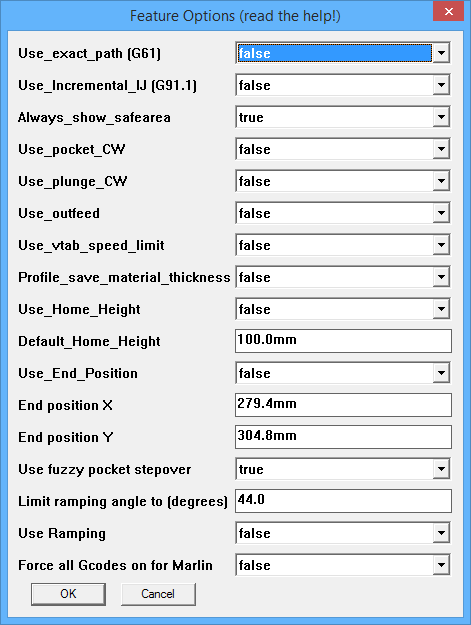
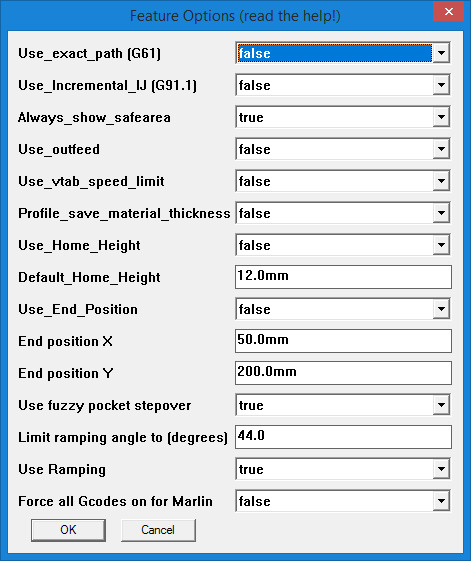
Make pockets obey overheadgantry direciton, as for plunge holes
When cutting foam one needs the pocket outline to cut the same direction
you selected for inside cuts, usually conventional.

Adjusted help to match recent changes
Adjusted Constants.rb as defaults not needed anymore.

Changed region(s): [[0.0, 0.0, 1.0, 1.0]]

diff --git a/Plugins/Phlatboyz/html/howto_options.html b/Plugins/Phlatboyz/html/howto_options.html
@@ -233,7 +233,7 @@ cuts = 3.3</pre>
       <dd>Set this to true, if you want the safe area to always show, when parameters are saved.<br>
          Otherwise the safe area will only show, if its size has been changed.
             
-   <dt>Use_pocket_CW
+<!--   <dt>Use_pocket_CW
       <dd>Set this true to generate pocket outlines that cut in CW instead of usual CCW direction<br>
          Please research 'climb milling' before changing this.<br>
          Note this is a draw time option, if you change it in the G-code you have to redraw all pocket cuts.
@@ -241,7 +241,7 @@ cuts = 3.3</pre>
    <dt>Use_plunge_CW
       <dd>Set this true to generate plunge hole cuts in CW instead of usual CCW cut direction<br>
          Please research 'climb milling' before changing this.
-            
+-->            
    <dt>Use_outfeed 
       <dd>Outfeed: phlatprinters only!<br>
          Set this to true to enable outfeed.  At the end of the job it will feed the material out the front of the

diff --git a/Plugins/Phlatboyz/tools/PhOptions.rb b/Plugins/Phlatboyz/tools/PhOptions.rb
@@ -63,7 +63,7 @@ module PhlatScript
          @use_exact_path         =   (phoptions.use_exact_path? ? '1' : '0')
          @use_incremental_ij     =   (phoptions.use_incremental_ij? ? '1' : '0')
          @always_show_safearea   =   (phoptions.always_show_safearea? ? '1' : '0')
-         @use_pocket_cw          =   (phoptions.use_pocket_cw? ? '1' : '0')
+         #@use_pocket_cw          =   (phoptions.use_pocket_cw? ? '1' : '0')
          #@use_plunge_cw          =   (phoptions.use_plunge_cw? ? '1' : '0')
          @use_outfeed            =   (phoptions.use_outfeed? ? '1' : '0')
          @profile_save_material_thickness =   (phoptions.profile_save_material_thickness? ? '1' : '0')
@@ -136,7 +136,7 @@ module PhlatScript
          @use_incremental_ij = false
          @always_show_safearea = Always_show_safearea
          @use_reduced_safe_height = Use_reduced_safe_height
-         @use_pocket_cw = Use_pocket_CW
+         #@use_pocket_cw = Use_pocket_CW
          #@use_plunge_cw = Use_plunge_CW
          @use_outfeed = Use_outfeed
          @profile_save_material_thickness = Profile_save_material_thickness
@@ -284,9 +284,9 @@ module PhlatScript
             @use_reduced_safe_height = value > 0 ? true :  false              if (value != -1)
 
          # Use_pocket_CW = false
-            value = -1
-            value = getvalue(optin['use_pocket_cw'])                if (optin.has_key?('use_pocket_cw'))
-            @use_pocket_cw = value > 0 ? true :  false              if (value != -1)
+         #   value = -1
+         #   value = getvalue(optin['use_pocket_cw'])                if (optin.has_key?('use_pocket_cw'))
+         #   @use_pocket_cw = value > 0 ? true :  false              if (value != -1)
 
          # Use_plunge_CW = false
          #   value = -1
@@ -703,12 +703,12 @@ module PhlatScript
          @use_reduced_safe_height = newval
       end
 
-      def use_pocket_cw?
-         @use_pocket_cw
-      end
-      def use_pocket_cw=(newval)
-         @use_pocket_cw = newval
-      end
+      #def use_pocket_cw?
+      #   @use_pocket_cw
+      #end
+      #def use_pocket_cw=(newval)
+      #   @use_pocket_cw = newval
+      #end
 
       #def use_plunge_cw?
       #   @use_plunge_cw
@@ -1213,7 +1213,7 @@ end # class
             'Use_exact_path (G61) ',
             'Use_Incremental_IJ (G91.1)',
             'Always_show_safearea ',
-            'Use_pocket_CW ',
+            #'Use_pocket_CW ',
             #'Use_plunge_CW ',
             'Use_outfeed ',
             'Use_vtab_speed_limit ',
@@ -1232,7 +1232,7 @@ end # class
             @options.use_exact_path?.inspect(),
             @options.use_incremental_ij?.inspect(),
             @options.always_show_safearea?.inspect(),
-            @options.use_pocket_cw?.inspect(),
+            #@options.use_pocket_cw?.inspect(),
             #@options.use_plunge_cw?.inspect(),
             @options.use_outfeed?.inspect(),
             @options.use_vtab_speed_limit?.inspect(),
@@ -1251,7 +1251,7 @@ end # class
             'true|false',
             'true|false',
             'true|false',
-            'true|false',
+            #'true|false',
             #'true|false',
             'true|false',
             'true|false',
@@ -1276,26 +1276,26 @@ end # class
             @options.use_exact_path          = (input[0] == 'true')
             @options.use_incremental_ij      = (input[1] == 'true')
             @options.always_show_safearea    = (input[2] == 'true')
-            @options.use_pocket_cw           = (input[3] == 'true')
+            #@options.use_pocket_cw           = (input[3] == 'true')
             #@options.use_plunge_cw           = (input[4] == 'true')
-            @options.use_outfeed             = (input[4] == 'true')
-            @options.use_vtab_speed_limit    = (input[5] == 'true')
-            @options.profile_save_material_thickness         = (input[6] == 'true')
-            @options.use_home_height         = (input[7] == 'true')
-            @options.default_home_height     = input[8] # length
+            @options.use_outfeed             = (input[3] == 'true')
+            @options.use_vtab_speed_limit    = (input[4] == 'true')
+            @options.profile_save_material_thickness         = (input[5] == 'true')
+            @options.use_home_height         = (input[6] == 'true')
+            @options.default_home_height     = input[7] # length
 
-            @options.use_end_position        = (input[9] == 'true')
+            @options.use_end_position        = (input[8] == 'true')
             if (@options.use_outfeed?)     # only one of them
                @options.use_end_position = false
             end
-            @options.end_x                   = input[10] #length
-            @options.end_y                   = input[11] #length
+            @options.end_x                   = input[9] #length
+            @options.end_y                   = input[10] #length
 
-            @options.use_fuzzy_pockets       = (input[12] == 'true')
+            @options.use_fuzzy_pockets       = (input[11] == 'true')
 
-            @options.ramp_angle              = input[13]  #float
-            @options.must_ramp               = (input[14] == 'true')
-            @options.gforce                  = (input[15] == 'true')
+            @options.ramp_angle              = input[12]  #float
+            @options.must_ramp               = (input[13] == 'true')
+            @options.gforce                  = (input[14] == 'true')
             #puts "saving must_ramp = #{@options.must_ramp?}"
             
             @options.save

diff --git a/Plugins/Phlatboyz/tools/PhPocketTool.rb b/Plugins/Phlatboyz/tools/PhPocketTool.rb
@@ -1006,11 +1006,11 @@ module PhlatScript
                contour_points.each { |cp|
                   cp.push(cp[0])  #close the loop for add_curve
                   #use add_curve instead of add_face so that the entire outline can be selected easily for delete
-                  if PhlatScript.usePocketcw?
-                     cedges = model.entities.add_curve(cp)
-                  else
-                     cedges = model.entities.add_curve(cp.reverse!)             # reverse points for counter clockwize loop
-                  end
+#                  if PhlatScript.usePocketcw?
+                  cedges = model.entities.add_curve(cp)
+#                  else
+#                     cedges = model.entities.add_curve(cp.reverse!)             # reverse points for counter clockwize loop
+#                  end
                   cuts = PocketCut.cut(cedges)
                   cuts.each { |cut| cut.cut_factor = compute_fold_depth_factor }
                   }
@@ -1053,11 +1053,11 @@ module PhlatScript
             if (contour_points.length >= 3)
                contour_points.push(contour_points[0])  #close the loop for add_curve
    #use add_curve instead of add_face so that the entire outline can be selected easily for delete
-               if PhlatScript.usePocketcw?
-                  cedges = model.entities.add_curve(contour_points)
-               else
-                  cedges = model.entities.add_curve(contour_points.reverse!)             # reverse points for counter clockwize loop
-               end
+#               if PhlatScript.usePocketcw?
+               cedges = model.entities.add_curve(contour_points)
+#               else
+#                  cedges = model.entities.add_curve(contour_points.reverse!)             # reverse points for counter clockwize loop
+#               end
                cuts = PocketCut.cut(cedges)
                cuts.each { |cut| cut.cut_factor = compute_fold_depth_factor }
             end

diff --git a/Plugins/Phlatboyz/tools/GcodeUtil.rb b/Plugins/Phlatboyz/tools/GcodeUtil.rb
@@ -741,7 +741,7 @@ module PhlatScript
                next unless pe && !pe.processed
                #           if (!Sketchup.active_model.get_attribute(Dict_name, Dict_overhead_gantry, $phoptions.default_overhead_gantry?))
                if !PhlatScript.useOverheadGantry?
-                  reverse = reverse || pe.is_a?(PhlatScript::InsideCut) || eu.reversed?
+                  reverse = reverse || pe.is_a?(PhlatScript::InsideCut) || pe.is_a?(PhlatScript::PocketCut) || eu.reversed?
                else
                   reverse = reverse || pe.is_a?(PhlatScript::OutsideCut) || eu.reversed?
                end
@@ -1528,7 +1528,7 @@ module PhlatScript
       def self.millEdgesPlain(aMill, edges, material_thickness, reverse = false)
          if edges && !edges.empty?
             begin
-               # puts "millEdgesPlain reverse=#{reverse}"
+               puts "millEdgesPlain reverse=#{reverse}" if @debug
 
                mirror = P.get_safe_reflection_translation
                trans = P.get_safe_origin_translation

diff --git a/Plugins/Phlatboyz/Constants.rb b/Plugins/Phlatboyz/Constants.rb
@@ -244,14 +244,15 @@ Use_old_multipass = false
 # Set this to true to use 1/3 of the usual safe travel height during plunge boring moves
 Use_reduced_safe_height = true
 
+# BOTH OF THE OPTIONS BELOW HAVE BEEN REMOVED IN v1.5, POCKETS WILL CUT IN THE DIRECTION SET BY OVERHEADGANTRY
 # Set this true to generate pocket outlines that cut in CW instead of usual CCW direction
 # Please research 'climb milling' before changing this.
 # Note this is a draw time option, if you change it in the Gcode you have to redraw all pocket cuts.
-Use_pocket_CW = false
+# Use_pocket_CW = false
 
 # Set this true to generate plunge hole cuts in CW instead of usual CCW cut direction
 # Please research 'climb milling' before changing this.
-Use_plunge_CW = false
+# Use_plunge_CW = false
 
 # Outfeed: phlatprinters only!
 # Set this to true to enable outfeed.  At the end of the job it will feed the material out the front of the

diff --git a/Plugins/Phlatboyz/Phlatscript.rb b/Plugins/Phlatboyz/Phlatscript.rb
@@ -351,9 +351,9 @@ module PhlatScript
   end
 
   # pockettool needs to know, normally false
-  def PhlatScript.usePocketcw?
-    $phoptions.use_pocket_cw?
-  end
+  #def PhlatScript.usePocketcw?
+  #  $phoptions.use_pocket_cw?
+  #end
 
   # used in phlatmill
    #def PhlatScript.usePlungeCW?
